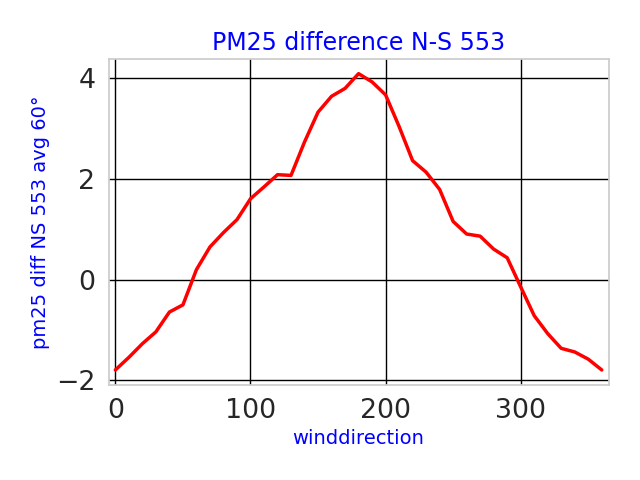
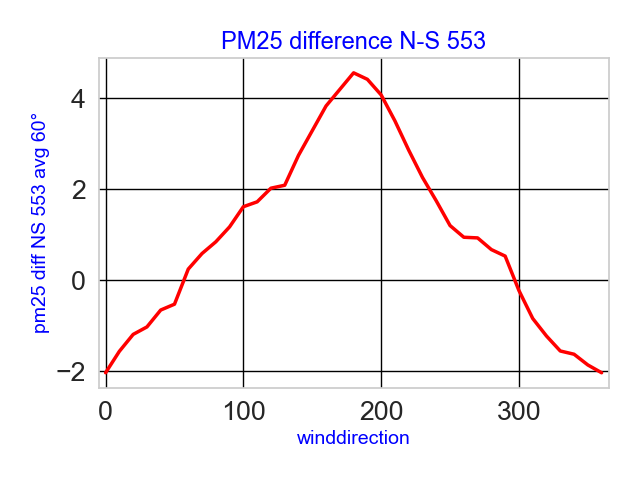
Industrie IJmuiden afgerond :)

Changed region(s): [[0.0312, 0.0625, 0.9688, 0.9375]]

diff --git a/python/projects/Industrie-Ijmuiden/Projectanalyzer.py b/python/projects/Industrie-Ijmuiden/Projectanalyzer.py
@@ -217,10 +217,10 @@ def runit():
     global superFrameAugmented
     global HLL_433
 
-    HLL_433 =  removeDatesBefore(HLL_433, aDate="2023-04-01 00:00:00+00:00")
+#    HLL_433 =  removeDatesBefore(HLL_433, aDate="2023-04-01 00:00:00+00:00")
 
     allSensors = ["NLMedian", "NL49570", "NL49557", "NL49553", "NL49572", "NL49573", "NL49551"]
-    allHLLSensors = ["HLL_513", "HLL_226", "HLL_452", "HLL_433"]
+    allHLLSensors = ["HLL_513", "HLL_226", "HLL_452"]
 
     # replace NLMedian  with valuse from Velsen Noord
     NLMedian = medianvalues([NL49570, NL49557, NL49553, NL49572, NL49573, NL49551],
@@ -239,6 +239,18 @@ def runit():
     windplot(superFrameAugmented, "pm25_diff_NS", polar=False,
              useMedian=True, title="PM25 difference N-S", smooth=3,
              method="medianvalues", filename=projectdir+"/windplotNS")
+
+    windplot(superFrameAugmented, "pm25_diff_NS_553", polar=False,
+             useMedian=True, title="PM25 difference N-S 553", smooth=3,
+             method="medianvalues", filename=projectdir+"/windplotNS_553")
+    windplot(superFrameAugmented, "pm25_diff_NS", polar=False,
+             useMedian=True, title="PM25 difference N-S", smooth=3,
+             method="medianvalues", filename=projectdir+"/windplotNS")
+
+    windplot(superFrameAugmented, "pm25_diff_NHLL226_SHLL513", polar=False,
+             useMedian=True, title="PM25 difference N (HLL) - S (HLL)", smooth=3,
+             method="medianvalues", filename=projectdir + "/windplotNS_NHLL226_SHLL513")
+    return
 
     printSeries(HLL_433, "HLL_433 pm25", projectdir + "/timeseries-" + "HLL_433-pm25",
                 ylim=(-20, 150))
